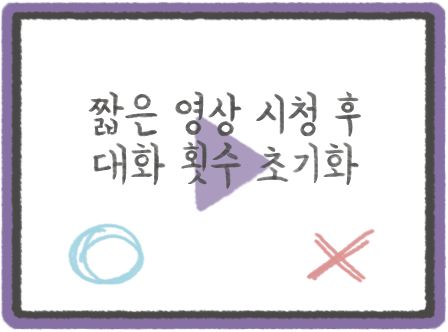
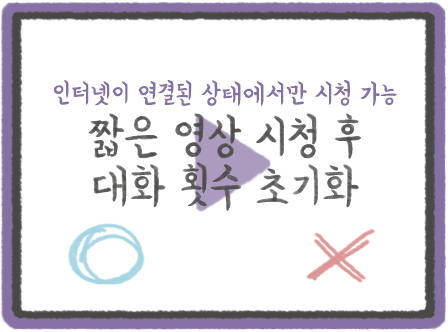
수정사항
소리수정
잠자는 대화창
도움말수정

Changed region(s): [[0.125, 0.241, 0.9062, 0.6325]]

diff --git a/_Script/TalkEvt.cs b/_Script/TalkEvt.cs
@@ -51,6 +51,7 @@ public class TalkEvt : MonoBehaviour {
 
     //나가기
     public GameObject exitTalkBalln, closeTB_exit;
+    public Sprite[] ballnSpr;
     public Text exitText;
     int exCk = 0;
     //종료
@@ -92,9 +93,11 @@ public class TalkEvt : MonoBehaviour {
                 exit_int = 1;
                 exitTalkBalln.SetActive(true); //대화창 새로만들기
                 closeTB_exit.SetActive(true);
+                exitTalkBalln.GetComponent<Image>().sprite = ballnSpr[0];
                 if (PlayerPrefs.GetInt("sleepTxt", 0) == 1)
                 {
                     talkCursor.SetActive(false);
+                    exitTalkBalln.GetComponent<Image>().sprite = ballnSpr[1];
                     exitText.text = "(자고있다. 조용히 나갈까?)\n(뒤로두번 종료)";
                 }
                 else
@@ -118,6 +121,7 @@ public class TalkEvt : MonoBehaviour {
             if (PlayerPrefs.GetInt("sleepTxt", 0) == 1)
             {
                 talkCursor.SetActive(false);
+                exitTalkBalln.GetComponent<Image>().sprite = ballnSpr[1];
                 exitText.text = "(..흠)";
             }
             else
@@ -152,6 +156,7 @@ public class TalkEvt : MonoBehaviour {
                 if (PlayerPrefs.GetInt("sleepTxt", 0) == 1)
                 {
                     talkCursor.SetActive(false);
+                    exitTalkBalln.GetComponent<Image>().sprite = ballnSpr[1];
                     exitText.text = "(..잘자)";
                 }
                 else
